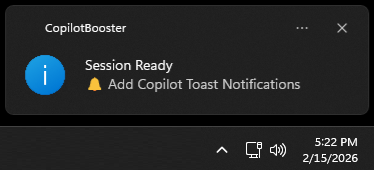
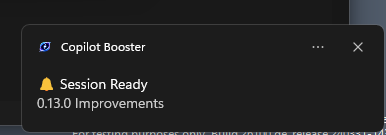
v0.13.0: Multi-select, Edge tabs, bell notifications, IDE file patterns, and more
Features 1-8: delete instant removal, multi-select sessions, Edge tab
save/restore, per-session state, unified window handle persistence,
events.jsonl content-based working/bell detection, wt.exe direct launch,
and IDE file pattern matching with sub-menu dropdown.

Also includes context menu icons, light/dark theme polish, staleness
threshold for false bells, duplicate CLI prevention, and 30 new tests.

diff --git a/README.md b/README.md
@@ -24,10 +24,11 @@ Modern AI-assisted development isn't one task at a time — it's **multiple Copi
 | Without Copilot Booster | With Copilot Booster |
 |---|---|
 | Alt-Tab through dozens of windows to find the right terminal | Click the session → focus the exact terminal, IDE, or browser |
-| Manually track which agent is working on what | Live Active column shows Terminal, Copilot CLI, IDE, and Edge status per session |
-| One shared browser for all research | Isolated Edge workspaces per session — tabs don't bleed across tasks |
+| Manually track which agent is working on what | Live Running column shows Terminal, Copilot CLI, IDE, Edge, and Explorer status per session |
+| One shared browser for all research | Isolated Edge workspaces per session — tabs saved and restored automatically |
 | Context-switch between repos by cd-ing around | Git worktree workspaces give each agent its own branch and directory |
-| Lose track of parallel agents after a restart | Terminal and browser persistence survives app restarts |
+| Lose track of parallel agents after a restart | Window handles, terminals, and Edge tabs all persist across restarts |
+| No idea when an agent finishes | 🔔 Bell notifications with toast popups when a session is ready |
 
 ---
 
@@ -49,20 +50,22 @@ Right-click the pinned icon to access everything:
 
 ### 🔄 Session Browser & Active Context Tracking
 
-The Existing Sessions tab is the central hub. Each session shows five columns — **Status** (animated icons), **Session**, **CWD** (with ⎇ for Git repos), **Date**, and **Active** — giving you a live view of what's running where.
+The session browser is the central hub. Each session shows **Session**, **CWD** (with ⎇ for Git repos), **Date**, and **Running** columns — giving you a live view of what's running where. Sessions with active processes are automatically sorted to the top.
 
 <p align="center">
-  <img src="images/existing-sessions-active-tracking.png" alt="Existing sessions with Terminal and Copilot CLI active tracking" width="700">
+  <img src="images/existing-sessions-active-tracking.png" alt="Session browser with active tracking, bell notifications, and multi-select" width="700">
 </p>
 
-The **Active** column tracks running contexts across multiple environments:
+The **Running** column tracks running contexts across multiple environments:
 
 | Context | How it's detected |
 |---------|-------------------|
 | **Terminal** | Windows launched via "Open Terminal" are tracked by PID and cached across restarts |
-| **Copilot CLI** | Open terminal windows are scanned by matching session summaries in window titles |
+| **Copilot CLI** | Detected via `events.jsonl` content parsing — working (spinner) or idle (bell) |
 | **IDE** | IDEs launched via the Open menu are tracked by window handle and cached across restarts |
-| **Edge** | Browser workspaces are tracked via UI Automation anchor-tab detection |
+| **Edge** | Browser workspaces tracked via UI Automation anchor-tab detection |
+| **Explorer** | Explorer windows opened via context menu are tracked by HWND |
+| **Files** | Session files folder opened via context menu |
 
 Each active context is a **clickable link** — click to focus the corresponding window instantly. Re-opening an IDE that's already tracked for a session will focus the existing window instead of launching a new instance.
 
@@ -71,55 +74,80 @@ Each active context is a **clickable link** — click to focus the corresponding
 </p>
 
 Other session browser features:
+- **Multi-select** — hold Ctrl for individual selection or Shift for range selection; batch Pin/Unpin and Archive/Unarchive via context menu
 - **Search** — filter sessions by title, folder, or metadata as you type
-- **Terminal persistence** — active terminals survive app restarts
+- **Active/Archived tabs** — archive sessions to keep your active list clean; unarchive anytime
+- **Pinned sessions** — pin sessions to keep them at the top regardless of sorting
 - **Auto-refresh** — the list updates when new sessions appear or names change externally
 - **Auto-cleanup** — empty sessions with no activity are automatically removed
-- **Loading indicator** — shows "Loading sessions..." while session data is being fetched
 
 ---
 
 ### 🔔 Session Status & Toast Notifications
 
-The **Status** column shows live session state with animated icons — a spinning blue indicator when Copilot CLI is working, and a red bell when it's idle and waiting for input. Bell rows are highlighted with a soft red background for quick visual scanning.
+The status column shows live session state with animated icons — a **spinning blue indicator** when Copilot CLI is working, and a **🔔 red bell** when it's idle and waiting for input. Bell rows are highlighted with a prominent red background for quick visual scanning.
 
 <p align="center">
-  <img src="images/session-state-notification.png" alt="Session status column showing bell and spinner icons" width="700">
+  <img src="images/session-state-notification.png" alt="Session status column showing bell and spinner icons with red notification rows" width="700">
 </p>
 
-When a session finishes work, a **Windows toast notification** pops up via the system tray icon with the session name. Click the notification to instantly focus the Copilot CLI terminal.
+When a session finishes work, a **Windows toast notification** pops up with the session name. Status detection is powered by content-based parsing of `events.jsonl` — it understands assistant turns, tool requests, and `ask_user` pauses.
 
 <p align="center">
   <img src="images/toast-notification.png" alt="Toast notification when session is ready" width="350">
 </p>
 
-- **One-shot notifications** — each bell only fires once per idle transition; clicking to focus a session suppresses the bell until the next work cycle completes
+- **Content-based detection** — parses event types (assistant.turn_start, tool.execution_start, ask_user) for accurate status
+- **One-shot notifications** — each bell only fires once per idle transition
+- **Staleness threshold** — sessions inactive for 30+ minutes are ignored to prevent false bells
 - **Startup-aware** — existing idle sessions don't trigger false notifications when the app launches
-- **Configurable** — toggle notifications on/off in the Settings tab
+- **Persistent bell state** — bell notifications survive app restarts
+- **Configurable** — toggle notifications on/off in Settings
 
 ---
 
 ### 📋 Right-Click Context Menu
 
-Right-click any session row to access all actions in a single context menu:
+Right-click any session row to access all actions in a single context menu with system icons:
 
 <p align="center">
-  <img src="images/context-menu-edit.png" alt="Right-click context menu with all session actions" width="300">
+  <img src="images/context-menu.png" alt="Right-click context menu with icons, IDE sub-menus, and all session actions" width="300">
 </p>
 
 | Action | Description |
 |--------|-------------|
 | **Open Session** | Resume the session in its original working directory |
 | **Edit Session** | Rename the session or change its working directory |
+| **Pin / Unpin** | Pin sessions to keep them at the top of the list |
+| **Archive / Unarchive** | Move sessions to the Archived tab |
+| **Delete Session** | Soft-delete a session (instantly removed from the list) |
 | **Open as New Copilot Session** | Start a fresh Copilot CLI session in the same directory |
 | **Open as New Copilot Session Workspace** | Create a Git worktree workspace (Git repos only) |
-| **Open Terminal** | Launch a standalone terminal in the session's directory |
-| **Open in {IDE} (CWD)** | Open the working directory in your configured IDE |
-| **Open in {IDE} (Repo Root)** | Open the Git repository root in your IDE |
-| **Delete Session** | Soft-delete a session (renames `workspace.yaml` → `workspace-deleted.yaml` for safe recovery) |
+| **Open Terminal** | Launch a terminal via Windows Terminal (wt.exe) |
+| **Open in Explorer (CWD)** | Open the working directory in Explorer |
+| **Open in {IDE}** | Sub-menu with CWD/Repo Root folders + matched project files |
 | **Open in Edge** | Launch a managed Edge browser workspace |
+| **Save Edge State** | Manually save Edge tabs (visible when Edge is open) |
+| **Open Files** | Open the session's files folder |
+| **Open Copilot Plan.md** | Open the session's plan file (if it exists) |
 
-IDE entries are added dynamically based on your configured IDEs in Settings.
+---
+
+### 🔍 IDE File Pattern Matching
+
+Configure file patterns per IDE (e.g., `*.sln;*.slnx`) in Settings. When a pattern is set, the IDE context menu becomes a **sub-menu** that searches for matching project files and shows them for quick one-click opening.
+
+<p align="center">
+  <img src="images/context-menu-ide-submenu.png" alt="IDE sub-menu showing CWD/Repo Root and matched .sln file" width="400">
+</p>
+
+- **Fast search** — uses `git ls-files` for Git repos (respects .gitignore), falls back to directory walk with configurable ignored directories
+- **Depth-sorted** — shallowest matches shown first, up to 5 results
+- **Configurable exclusions** — manage ignored directories (node_modules, bin, obj, etc.) in the "IDE Search" settings tab
+
+<p align="center">
+  <img src="images/settings-ide-search.png" alt="IDE Search settings tab with ignored directories" width="400">
+</p>
 
 ---
 
@@ -131,35 +159,28 @@ Open a managed Microsoft Edge window linked to any session. Each workspace gets 
   <img src="images/edge-session-tracking.png" alt="Edge browser workspace with session anchor tab" width="700">
 </p>
 
-- **Active tracking** — the Edge workspace appears as a clickable link in the Active column; click to focus the window
-- **Session name in tab** — the anchor tab title shows the session name (alias or summary) for easy identification; updates live when you change the alias
-- **New tab on open** — a fresh new tab is automatically opened alongside the anchor tab so your browsing doesn't overwrite the tracker
-- **Tab-level detection** — uses UI Automation to find the anchor tab across all Edge windows, even when another tab is active
+- **Tab save/restore** — save Edge tabs via "Save Edge State" in the context menu; tabs are restored when reopening Edge for the session
+- **Active tracking** — the Edge workspace appears as a clickable link in the Running column
+- **Session name in tab** — the anchor tab title shows the session name; updates live when you change the alias
+- **Manual save** — "Save Edge State" context menu button saves all open tabs for the session
+- **Tab-level detection** — uses UI Automation to find the anchor tab across all Edge windows
 - **Auto-cleanup** — when you close the anchor tab or the Edge window, the workspace is automatically removed from tracking
-- **Re-discovery** — if you restart Copilot Booster while an Edge workspace is still open, it will be re-detected on the next refresh
 
 ---
 
 ### 📂 Smart Directory Picker
 
-The **New Session** tab shows your most-used working directories — sorted by frequency across all previous sessions. Non-existent paths are automatically cleaned up.
+The **New Session** dialog shows your most-used working directories — sorted by frequency across all previous sessions. Non-existent paths are automatically cleaned up.
 
 <p align="center">
-  <img src="images/new-session-tab.png" alt="New Session tab with directory picker and session name prompt" width="700">
+  <img src="images/new-session-tab.png" alt="New Session dialog with directory picker and session counts" width="700">
 </p>
 
 Each directory shows:
 - **# Sessions created** — how many sessions have used this path
 - **Git** — whether the directory is inside a Git repository (including worktrees)
 
-Right-click any directory to access all actions, or double-click to quickly start a new session with a name prompt:
-
-| Action | Description |
-|--------|-------------|
-| **New Copilot Session** | Create a named session in the selected directory |
-| **New Copilot Session Workspace** | Create a Git worktree workspace (Git repos only) |
-| **Add Directory** | Browse for a new directory to add to the list |
-| **Remove Directory** | Remove a manually-added directory (pinned only) |
+Right-click any directory to access all actions, or double-click to quickly start a new session with a name prompt.
 
 ---
 
@@ -168,8 +189,8 @@ Right-click any directory to access all actions, or double-click to quickly star
 For Git-enabled directories, Copilot Booster can create isolated workspaces backed by [git worktrees](https://git-scm.com/docs/git-worktree). Each workspace gets its own branch and directory — perfect for working on multiple features in parallel without stashing or switching branches.
 
 Create a workspace from two places:
-- **New Session tab** → right-click a Git directory → **New Copilot Session Workspace**
-- **Existing Sessions tab** → right-click a session → **Open as New Copilot Session Workspace**
+- **New Session** → right-click a Git directory → **New Copilot Session Workspace**
+- **Existing Sessions** → right-click a session → **Open as New Copilot Session Workspace**
 
 Workspaces are stored in `%APPDATA%\CopilotBooster\Workspaces\` and named after the repository and branch (e.g., `myrepo-feature-xyz`).
 
@@ -177,16 +198,22 @@ Workspaces are stored in `%APPDATA%\CopilotBooster\Workspaces\` and named after 
 
 ### ⚙ Settings
 
-All configuration lives in a tabbed UI — no JSON editing required.
+All configuration lives in a tabbed UI with info labels and tooltips — no JSON editing required.
 
 <p align="center">
-  <img src="images/settings-tab.png" alt="Settings with Allowed Tools, Directories, and IDEs" width="700">
+  <img src="images/settings-tab.png" alt="Settings dialog with IDEs tab showing File Pattern column" width="700">
 </p>
 
 - **Theme** — choose between System (default), Light, or Dark theme; persisted across restarts
+- **Notify on bell** — toggle Windows toast notifications when sessions finish work
+- **Always on top** — keep the window above other windows
+- **Auto-hide on focus** — hide other session windows when focusing one
+- **Max active sessions** — configurable limit (0 = unlimited)
+- **Pinned order** — sort pinned sessions by last updated or alias name
 - **Allowed Tools** — whitelist shell commands and MCP tools that Copilot can use without prompting
 - **Allowed Directories** — grant Copilot access to specific directories
-- **IDEs** — register your IDEs for the Open menu (e.g., Visual Studio, VS Code, Rider)
+- **IDEs** — register your IDEs with optional file patterns (e.g., `*.sln;*.slnx`) for project file search
+- **IDE Search** — manage directories excluded from IDE file pattern search
 - **Default Work Dir** — set the default working directory for new sessions
 
 ---
@@ -279,17 +306,21 @@ CopilotBooster.exe --settings             # Open settings
 ## 🏗 Architecture
 
 ```
-CopilotBooster.exe (WinForms, persistent taskbar window)
+CopilotBooster.exe (WinForms .NET 10, persistent taskbar window)
 ├── System tray icon (always visible, minimize-to-tray on close)
-├── Sets AppUserModelID for taskbar/JumpList association
+├── Sets AppUserModelID for taskbar/JumpList/toast association
 ├── Registers PID → session mapping in %APPDATA%\CopilotBooster\active-pids.json
 ├── Launches copilot.exe with --allow-tool and --add-dir from settings
 ├── Creates session workspace.yaml + events.jsonl for new sessions
-├── Active context tracking (Terminal, Copilot CLI, IDE, Edge)
+├── Active context tracking (Terminal, Copilot CLI, IDE, Edge, Explorer)
 │   ├── PID registry + process scanning for terminals
-│   ├── Window title matching for Copilot CLI detection
-│   ├── Process tracking for IDE instances
-│   └── UI Automation for Edge anchor-tab detection
+│   ├── events.jsonl content parsing for Copilot CLI status (working/idle/bell)
+│   ├── HWND tracking for IDE instances (persisted across restarts)
+│   ├── UI Automation for Edge anchor-tab detection
+│   └── HWND tracking for Explorer windows
+├── Per-session state (Edge tabs, session-specific data)
+├── IDE file pattern search (git ls-files / directory walk)
+├── Window handle cache persistence (unified for all window types)
 ├── Terminal cache persistence across restarts
 ├── Updates jump list on launch + every 5 min (background, coordinated)
 └── Cleans up on exit (unregisters PID, refreshes jump list)
@@ -299,26 +330,36 @@ CopilotBooster.exe (WinForms, persistent taskbar window)
 
 | Service | Purpose |
 |---------|---------|
-| `ActiveStatusTracker` | Aggregates active status across all context types |
+| `ActiveStatusTracker` | Aggregates active status across all context types with HWND persistence |
+| `EventsJournalService` | Content-based Copilot CLI status detection via events.jsonl parsing |
+| `BellNotificationService` | Toast notifications and bell state management |
 | `SessionDataService` | Unified session loading with Git detection caching |
 | `CopilotSessionCreatorService` | Creates new sessions with workspace.yaml and events.jsonl |
 | `EdgeWorkspaceService` | Edge browser workspace lifecycle and UI Automation |
+| `EdgeTabPersistenceService` | Save/restore Edge tabs per session |
+| `IdeFileSearchService` | Fast project file search (git ls-files / directory walk) |
+| `SessionStateService` | Per-session state directory management |
+| `WindowHandleCacheService` | Unified window handle persistence across restarts |
 | `TerminalCacheService` | Persists terminal sessions across app restarts |
 | `WindowFocusService` | HWND-based window focusing with P/Invoke |
 | `SessionService` | Session CRUD, search, and Git root detection |
+| `SessionArchiveService` | Archive and pin state persistence |
 | `CopilotLocator` | Finds the Copilot CLI executable |
 
 ### Files
 
 | Path | Purpose |
 |------|---------|
-| `%APPDATA%\CopilotBooster\launcher-settings.json` | Tools, directories, IDEs, default work dir |
+| `%APPDATA%\CopilotBooster\launcher-settings.json` | Tools, directories, IDEs, file patterns, ignored dirs |
 | `%APPDATA%\CopilotBooster\active-pids.json` | PID → session ID mapping |
 | `%APPDATA%\CopilotBooster\terminal-cache.json` | Cached terminal sessions for restart persistence |
-| `%APPDATA%\CopilotBooster\ide-cache.json` | Cached IDE window handles for restart persistence |
+| `%APPDATA%\CopilotBooster\window-handles.json` | Unified window handle cache (IDE, Explorer, Edge) |
+| `%APPDATA%\CopilotBooster\session-states.json` | Archive and pin states per session |
+| `%APPDATA%\CopilotBooster\sessions\{id}\` | Per-session state directory |
+| `%APPDATA%\CopilotBooster\sessions\{id}\edge-tabs.json` | Saved Edge tab URLs |
 | `%APPDATA%\CopilotBooster\jumplist-lastupdate.txt` | Update coordination timestamp |
 | `%APPDATA%\CopilotBooster\launcher.log` | Debug log |
-| `%APPDATA%\CopilotBooster\pinned-directories.json` | Manually-added directories for New Session tab |
+| `%APPDATA%\CopilotBooster\pinned-directories.json` | Manually-added directories for New Session |
 | `~/.copilot/session-state/` | Session metadata (managed by Copilot CLI) |
 
 ---

diff --git a/CHANGELOG.md b/CHANGELOG.md
@@ -4,6 +4,47 @@ All notable changes to this project will be documented in this file.
 
 The format is based on [Keep a Changelog](https://keepachangelog.com/en/1.1.0/).
 
+## [0.13.0] - 2026-02-18
+
+### Added
+
+- **Delete instant removal** — deleting a session instantly removes it from the list without requiring a full refresh.
+- **Multi-select sessions** — hold Ctrl to select individual sessions or Shift for range selection. Multi-select supports batch Pin/Unpin and Archive/Unarchive via context menu; other actions are greyed out.
+- **Edge tab save/restore** — Edge browser tabs can be saved per session via the "Save Edge State" context menu button. Opening Edge for a session restores all previously saved tabs.
+- **Per-session state** — each session now has its own state directory under `%APPDATA%\CopilotBooster\sessions\{id}\` for storing Edge tabs and other session-specific data.
+- **Unified window handle persistence** — all tracked window handles (IDE, Explorer, Edge) are persisted in a single cache file and survive app restarts. Stale handles are automatically pruned on load.
+- **Events.jsonl content-based detection** — Copilot CLI working/idle status is now detected by parsing the last event in `events.jsonl` (assistant turns, tool requests, ask_user). Replaces the old file-watcher approach.
+- **Bell notifications** — sessions that finish work show a 🔔 bell icon and red-highlighted row. Windows toast notifications pop up with the session name. Bell state persists across app restarts.
+- **Direct terminal launch** — terminals now launch via `wt.exe` (Windows Terminal) with `cmd.exe` fallback, for faster startup.
+- **Duplicate CLI prevention** — opening a session that already has a Copilot CLI running focuses the existing window instead of spawning a new one.
+- **IDE file pattern matching** — configure file patterns per IDE (e.g., `*.sln;*.slnx`) in Settings. The context menu shows a sub-menu with matched project files for quick opening.
+- **IDE Search settings tab** — new "IDE Search" tab in Settings to manage directories excluded from file pattern search (node_modules, bin, obj, etc.).
+- **Context menu icons** — all context menu items now have icons extracted from system shell resources (shell32.dll, imageres.dll) and IDE executables.
+- **Open Files** — context menu option to open the session's files folder (`~/.copilot/session-state/{id}/files`).
+- **Open Copilot Plan.md** — context menu option to open a session's plan file (visible only when it exists).
+- **Settings tab tooltips** — all settings tabs have info labels (ℹ) and hover tooltips explaining their purpose.
+- **Running session sort priority** — sessions with active processes are sorted to the top of the list.
+
+### Changed
+
+- **Unified IDE sub-menus** — IDE context menu items are now always sub-menus containing CWD and Repo Root folders (merged when identical), plus matched project files when a pattern is configured.
+- **Context menu reorganized** — session operations (Pin, Archive, Delete) moved to top section after Open/Edit for better grouping.
+- **Brighter bell colors** — notification row backgrounds are stronger in both dark and light themes for better visibility. Selected bell rows use an even more prominent color.
+- **Darker grid borders** — light theme grid borders now use `ControlDark` to match header borders.
+- **ListView hover highlight** — owner-drawn ListViews now show a hover effect in light theme.
+- **ListView foreground fix** — fixed white text appearing in light theme ListViews due to inherited dark-mode colors.
+- **Toast notifications** — use app icon via `AppUserModelID` on Start Menu shortcuts; bell emoji in title, session name in body.
+- **Staleness threshold** — events.jsonl files older than 30 minutes are treated as unknown status, preventing false bells on old sessions.
+- **Renamed "Open Artifacts"** to **"Open Files"**.
+
+### Fixed
+
+- **False bells on startup** — stale cache entries are filtered on load; only working sessions are suppressed during startup seeding.
+- **Bell-to-working transition** — selected row background color is properly reset when a bell session starts working again.
+- **Concurrent modification crash** — session list in `ActiveStatusTracker.Refresh()` is now snapshot-copied to prevent collection modification during enumeration.
+- **VSCode Insiders icon** — IDE paths with embedded quotes are now trimmed before icon extraction.
+- **Toast icon missing** — added `AppUserModelID: CopilotBooster` to installer shortcuts so toast notifications show the app icon.
+
 ## [0.12.0] - 2026-02-17
 
 ### Added
